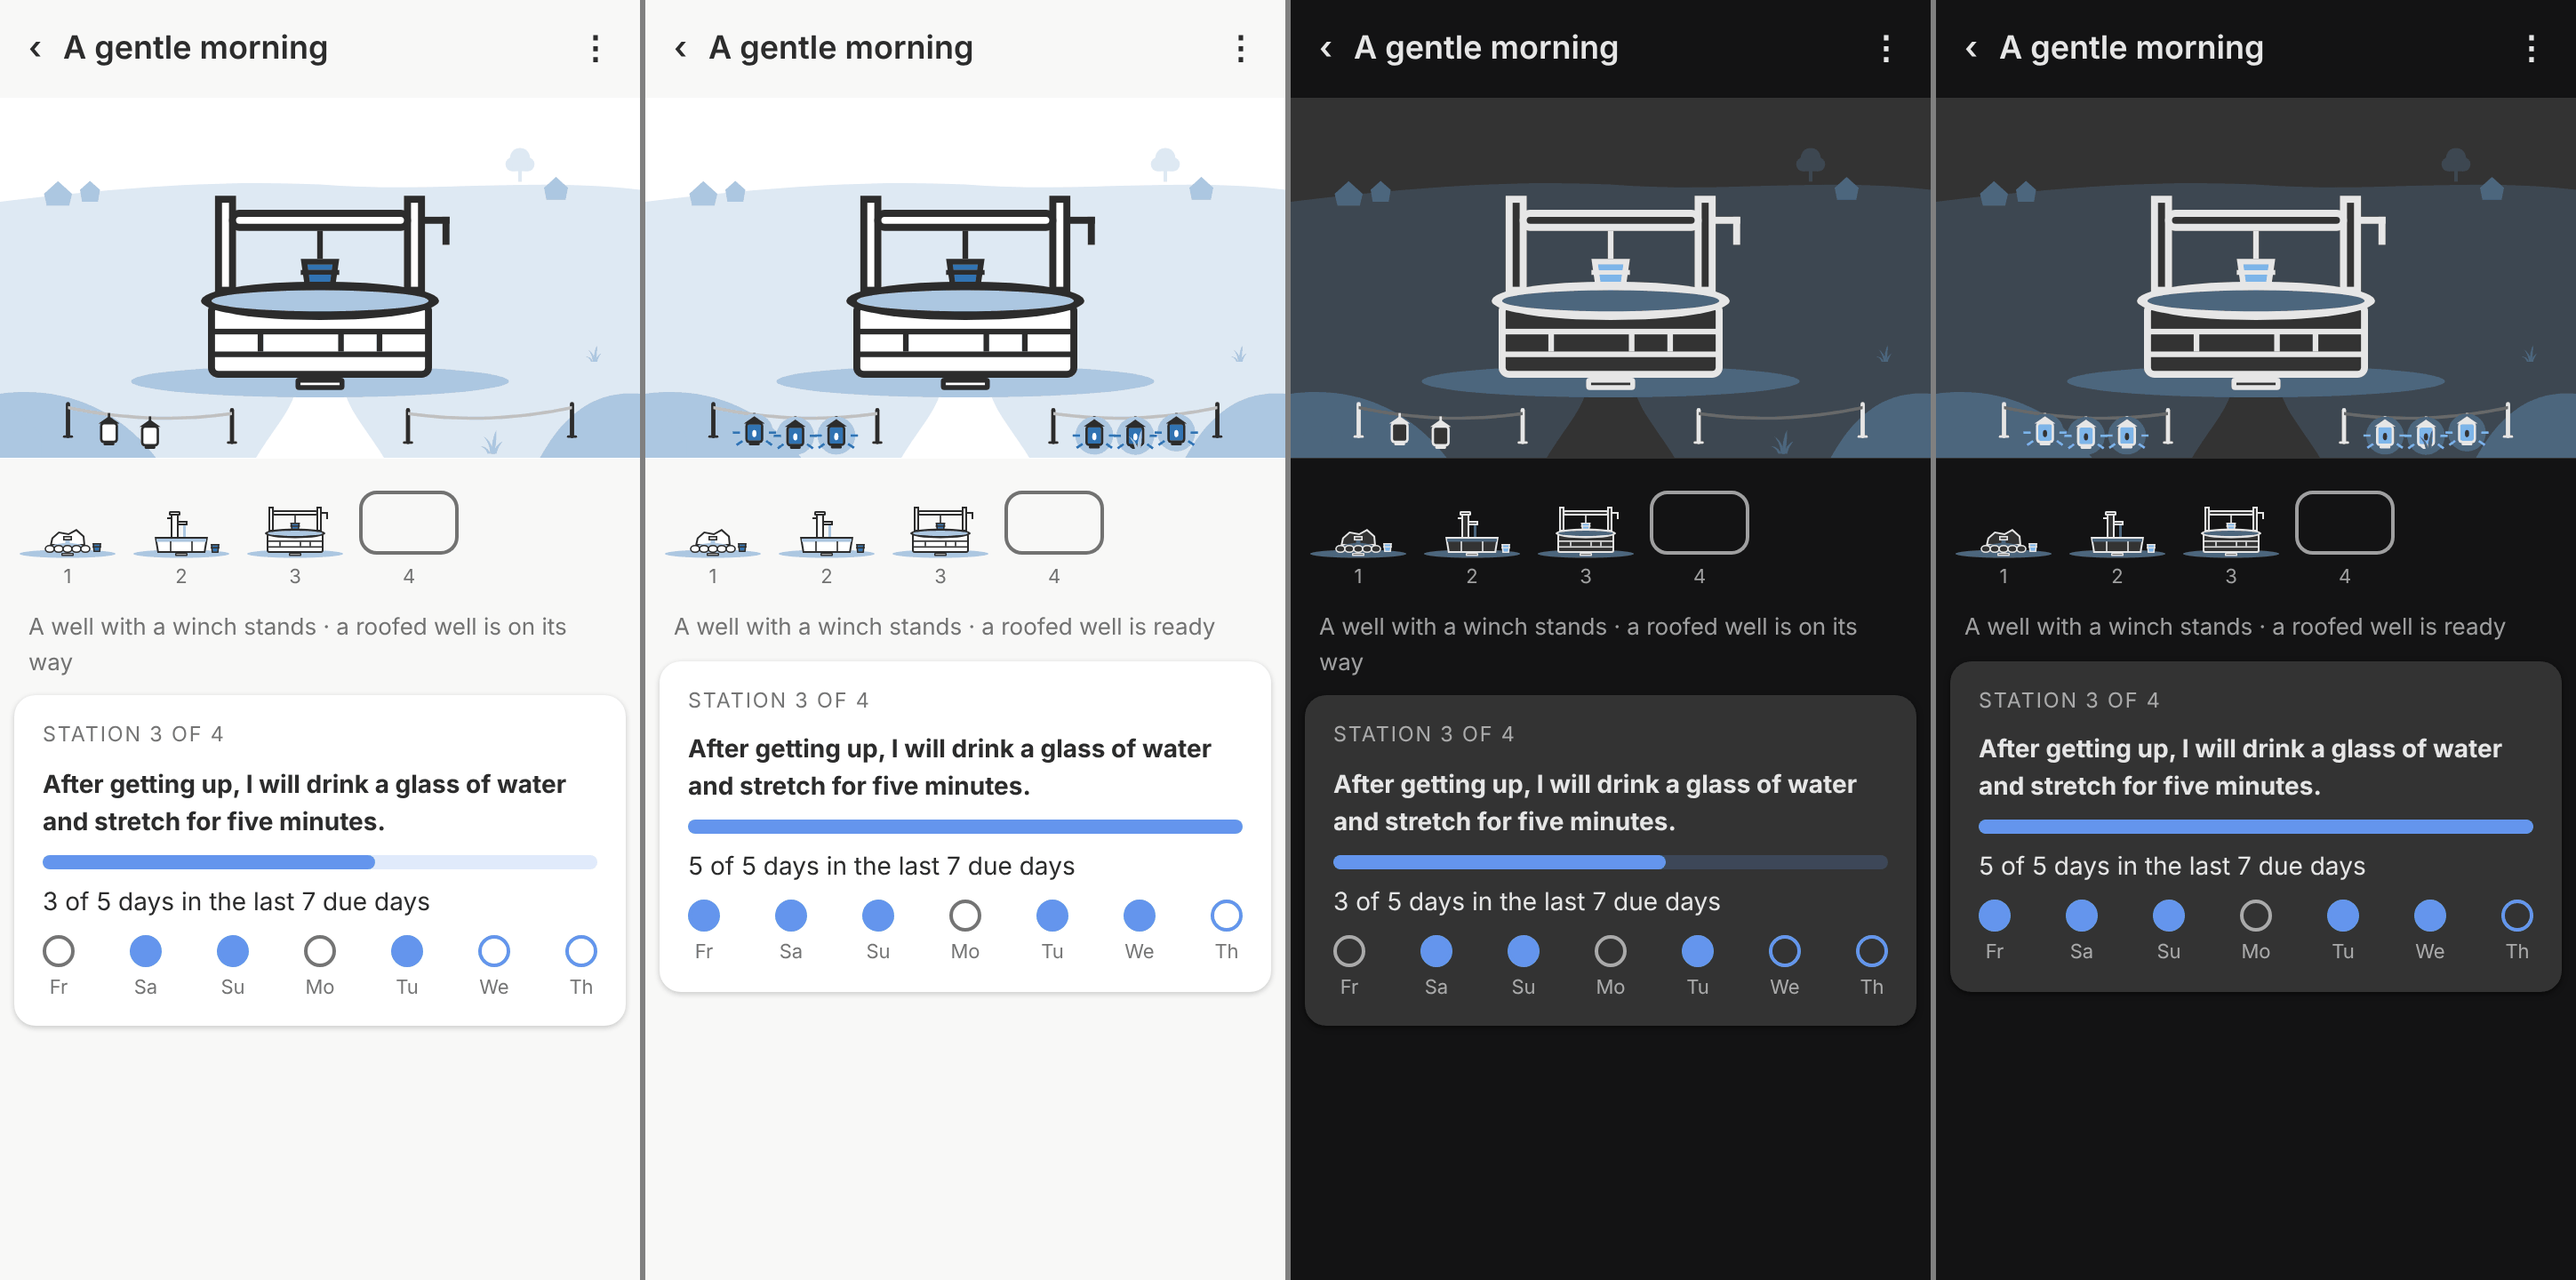
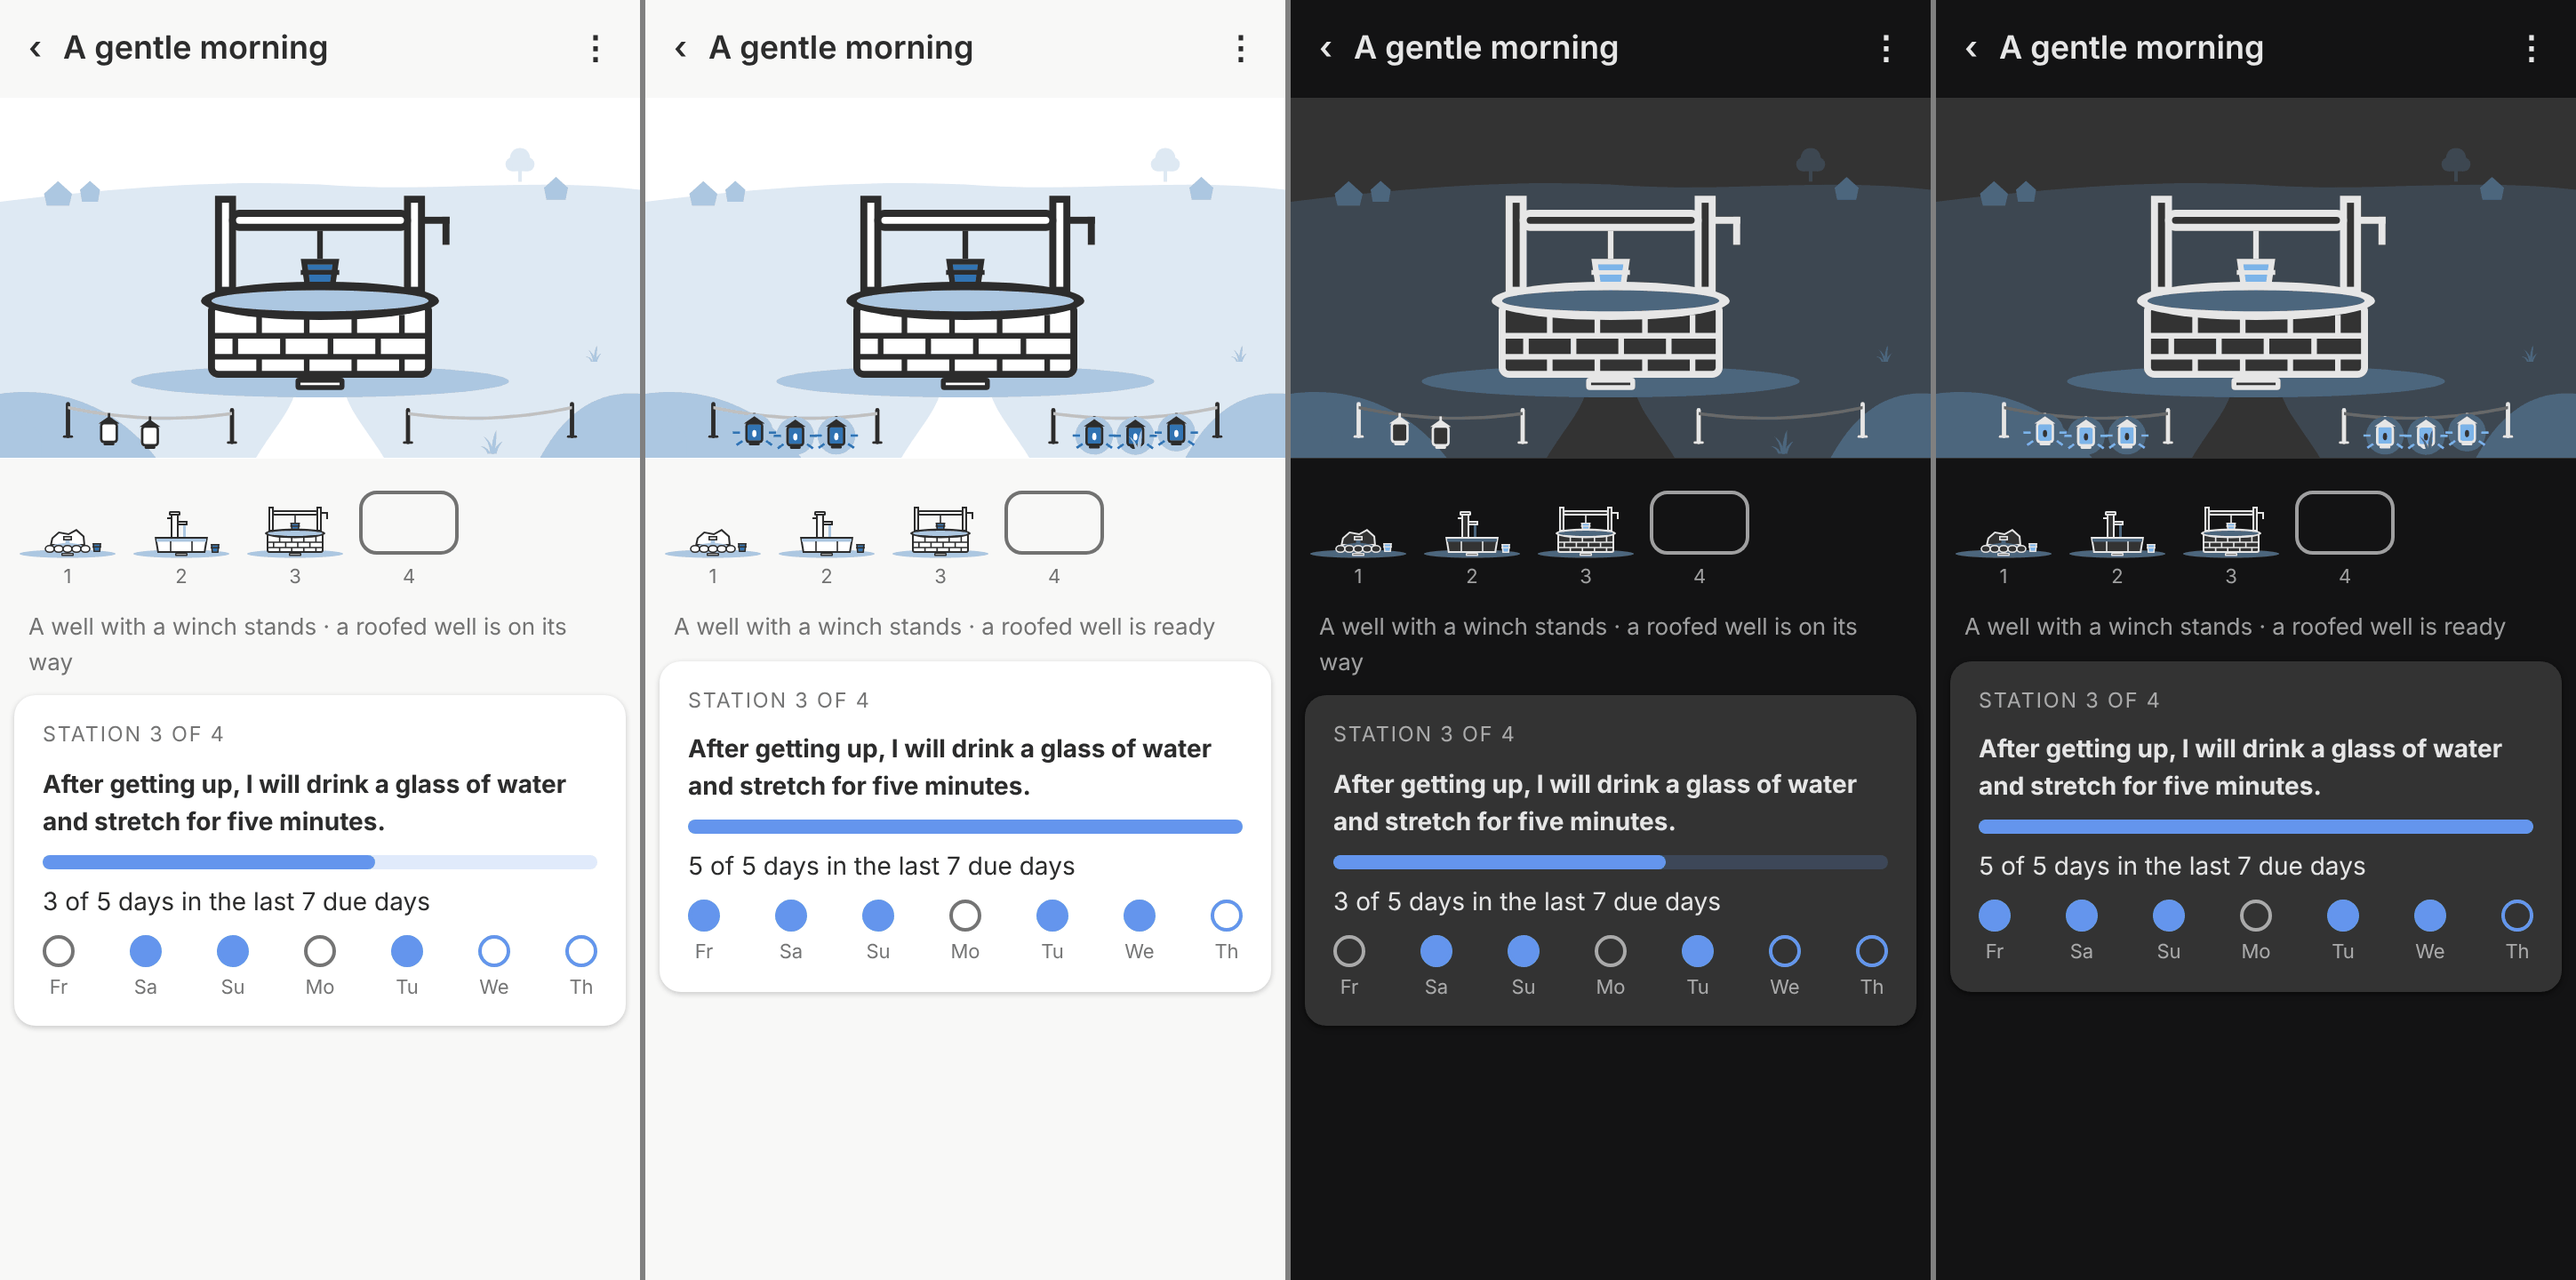
Art: Well's stone walls read as stones again (#128)
The owner found the stones no longer read as stones. Every stone wall of
Well (the well in versions 3 to 5, the well house's side walls) is now
courses of stones with staggered joints, drawn as one path per wall by
the new helper `masonry`, so the files stay small.

Claude-Session: https://claude.ai/code/session_019PsDpCdRYaLb9552fVk121

diff --git a/docs/log.md b/docs/log.md
@@ -2,7 +2,7 @@
 
 ## 2026-11-15
 
-- **Creation** (#128, Well): the ladder Well, drawn by `scripts/draw-ladders.mjs`: a spring from a rock into a basin of stones, a trough under a pump, a round well with a winch, the well under a roof, a stone well house with the well under its arch; each whole and larger than the one before, on Home's threshold stone. Water in the builds is `tint-strong`; the accent is the bucket. Its land setting `setting-green` (a village green: a far ridge with roofs, no water) shares Home's path and marker posts; default marker lanterns, default hue water blue; titles in English and German. Checked at 360 × 720 and in the row at 60 × 40, light and dark: the spring's rock first read as a hut and is now a low, broken outcrop; the well wall read as a crate and now has a round rim around its water. The fifth version was first a fountain; the owner rejected it (a fountain is another use than a well), so it is a well house: a closed house with a door read as a second Home house and a low arch as a garage, so its arch is tall and wide; the owner then saw the well standing in front of the house, so it is smaller, set back on the floor of a shaded arch, and the front wall is drawn over it with the arch cut out ([journey design](journey-design.md#builds-and-ladders-the-valley-42), `docs/screenshots/ladder-well*.png`). Lookout follows after the owner's judgement.
+- **Creation** (#128, Well): the ladder Well, drawn by `scripts/draw-ladders.mjs`: a spring from a rock into a basin of stones, a trough under a pump, a round well with a winch, the well under a roof, a stone well house with the well under its arch; each whole and larger than the one before, on Home's threshold stone. Water in the builds is `tint-strong`; the accent is the bucket. Its land setting `setting-green` (a village green: a far ridge with roofs, no water) shares Home's path and marker posts; default marker lanterns, default hue water blue; titles in English and German. Checked at 360 × 720 and in the row at 60 × 40, light and dark: the spring's rock first read as a hut and is now a low, broken outcrop; the well wall read as a crate and now has a round rim around its water. The fifth version was first a fountain; the owner rejected it (a fountain is another use than a well), so it is a well house: a closed house with a door read as a second Home house and a low arch as a garage, so its arch is tall and wide; the owner then saw the well standing in front of the house, so it is smaller, set back on the floor of a shaded arch, and the front wall is drawn over it with the arch cut out; then the owner found the stones no longer read as stones, so every stone wall (the well in versions 3 to 5, the well house's side walls) is drawn as courses of stones with staggered joints (`masonry`) ([journey design](journey-design.md#builds-and-ladders-the-valley-42), `docs/screenshots/ladder-well*.png`). Lookout follows after the owner's judgement.
 - **Creation** (#128, Garden): the ladder Garden, drawn by `scripts/draw-ladders.mjs`: a garden bed with a sunflower, a garden in rows, a garden with a hedge and a fruit tree, a greenhouse, an orchard around the greenhouse; each whole and larger than the one before, on the same threshold stone as Home. Its land setting `setting-field` (open fields, low hills, no water) shares Home's path to the threshold and marker posts (`sides`); default marker flowers, default hue moss; titles in English and German. The engine's list of ladders reads `garden.ladder.json` (no rule changed). Checked at 360 × 720 and in the row of versions at 60 × 40, light and dark, over three rounds: the bean poles were dropped as noise, the hedge became a row of round bushes instead of a box, plants rise further above their beds, the greenhouse stands on a low wall that hides its plants' feet, and the trees of the greenhouse and the orchard stand behind the hedge so their trunks do not read as posts ([journey design](journey-design.md#builds-and-ladders-the-valley-42), `docs/screenshots/ladder-garden*.png`). Well and Lookout follow after the owner's judgement.
 
 ## 2026-11-14
